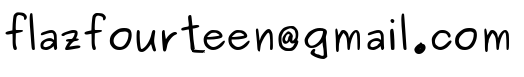
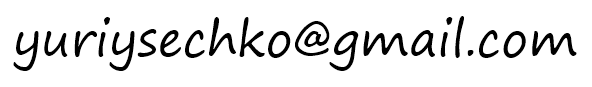
aboutme: update cv

Changed region(s): [[0.0, 0.1558, 0.9771, 0.8312], [0.1527, 0.1558, 0.2137, 0.2597]]

diff --git a/aboutme/cv/cv.html b/aboutme/cv/cv.html
@@ -3,7 +3,7 @@
 <html>
 	<head>
 		<meta http-equiv="Content-Type" content="text/html; charset=utf-8">
-		<title>Flaz14's CV</title>
+		<title>Yury Siachko</title>
 	</head>
 
 	<body>
@@ -18,50 +18,42 @@
 		<hr>
 		
 		<h1>
-			<a href="http://flaz14.github.io/aboutme/cv/cv.html">Flaz14's CV</a>
+			<a href="http://flaz14.github.io/aboutme/cv/cv.html">Yury Siachko</a>
 		</h1>
 		
 		<h2>Summary</h2>
 		
 		<p>
-			I'm Java Developer with strong academic background, diverse experience and excellent computer skills. I'm 
-			hungry for knowledge and challenges. So there are gaps in my work experience. Let me clarify them.
-		
-		<p>
-			From <i>December 2013</i> till <i>December 2014</i> I served in Armed Forces of Belarus.
-
-		<p>
-			From <i>November 2017</i> till <i>June 2018</i> I tried to get rid of office job and start my career as 
-			freelancer. Also, I attempted to write paid articles on Java, Linux, security. But without luck.
-
-		<p>
-			I improved my programming skills every day. I concentrated not only on Java but on Python as well. Another 
-			area of my interests was abandoned software. I liked to hack it. I thought that learning the history of 
-			computer science had helped me to understand modern technologies at theirs bases. I wrote dozens of free 
-			articles. Most of them are located on <a href="http://flaz14.github.io/">this website</a>, some of them are 
-			published in <a href="http://dgmag.in/">Downgrade e-journal</a>.
-
-		<p>
-			I'm a Linux geek. I like to customize my working environment and take the utmost of custom shell 
-			improvements, AppArmor, etc.
-
-		<p>
-			In addition to that I like to read books and visit libraries. I like not only read but collect good 
-			technical stuff. When I see nice article on Internet I save it to my computer. Most of the material is 
-			categorized and reside in the appropriate folders. Sometimes I download entire websites to my PC.
-
-		<p>
-			In my spare time I do physical training. I like walking. I go everywhere: in parks, in the center of the 
-			city and through the countryside. I like to repair old things also.
-
-		<p>
-			I can touch type. I like pure strict HTML. And I'm a fan of Unicode.	
-
-		<br><br><br>
-		
+			I'm Java Developer with strong academic background, diverse experience and excellent computer skills.
+			
 		<h2>Job History</h2>
 		
 		<table>
+			<tr>
+				<td><a href="https://www.aspose.com/"><img src="logo/aspose.png"></a>
+				<td>
+					<p><b>Java Developer</b> @ <a href="https://www.aspose.com/">Aspose</a>
+					<p>March 2019 - now (8 months)
+			
+			<tr>
+				<td colspan="2">
+					<p>
+						I work on Aspose.Words for Java. I'm responsible for maintaining the library: bug fixing, performance tuning, customer support.
+
+					<p>
+						My job is quite specific: 99% of the tasks are not "googleable". E.g. there are not typical solutions that can be found on the Internet. In many cases I deal with mathematics, use exotic debugging tools and dig into image file formats specifications.
+					
+					<p>
+						Technologies: 
+						<i>
+							Java, 
+							TestNG, 
+							JMH,
+							Intellij IDEA							
+						</i>
+						
+			<tr><td colspan="2"><hr>
+		
 			<tr>
 				<td><a href="http://iesplus.pro/"><img src="logo/ies.png"></a>
 				<td>
@@ -327,6 +319,40 @@
 			<img src="badge/topcoder.png">
 		
 		<br><br><br>
+		
+		<h2>Out-of-Job Activities</h2>
+		
+		<p>
+			From <i>December 2013</i> till <i>December 2014</i> I served in Armed Forces of Belarus.
+
+		<p>
+			From <i>November 2017</i> till <i>June 2018</i> I tried to get rid of office job and start my career as 
+			freelancer. Also, I attempted to write paid articles on Java, Linux, security. But without luck.
+
+		<p>
+			I improve my programming skills every day. I concentrate not only on Java but on Python as well. Another 
+			area of my interests is abandoned software. I like to hack it. I thought that learning the history of 
+			computer science helps me to understand modern technologies at theirs bases. I've wrote dozens of free 
+			articles. Most of them are located on <a href="http://flaz14.github.io/">this website</a>, some of them are 
+			published in <a href="http://dgmag.in/">Downgrade e-journal</a>.
+
+		<p>
+			I'm a Linux geek. I like to customize my working environment and take the utmost of custom shell 
+			improvements, AppArmor, etc.
+
+		<p>
+			In addition to that I like to read books and visit libraries. I like not only read but collect good 
+			technical stuff. When I see nice article on Internet I save it to my computer. Most of the material is 
+			categorized and reside in the appropriate folders. Sometimes I download entire websites to my PC.
+
+		<p>
+			In my spare time I do physical training. I like walking. I go everywhere: in parks, in the center of the 
+			city and through the countryside. I like to repair old things also.
+
+		<p>
+			I can touch type. I like pure strict HTML. And I'm a fan of Unicode.	
+
+		<br><br><br>
 			
 		<h2>Professional Communities</h2>
 
@@ -341,7 +367,7 @@
 		<h2>Contact</h2>
 		
 		<p>
-			<img src="../illustrations/reachout.png" width="337">
+			<img src="reachout.png" width="337">
 			
 		<hr>
 		
